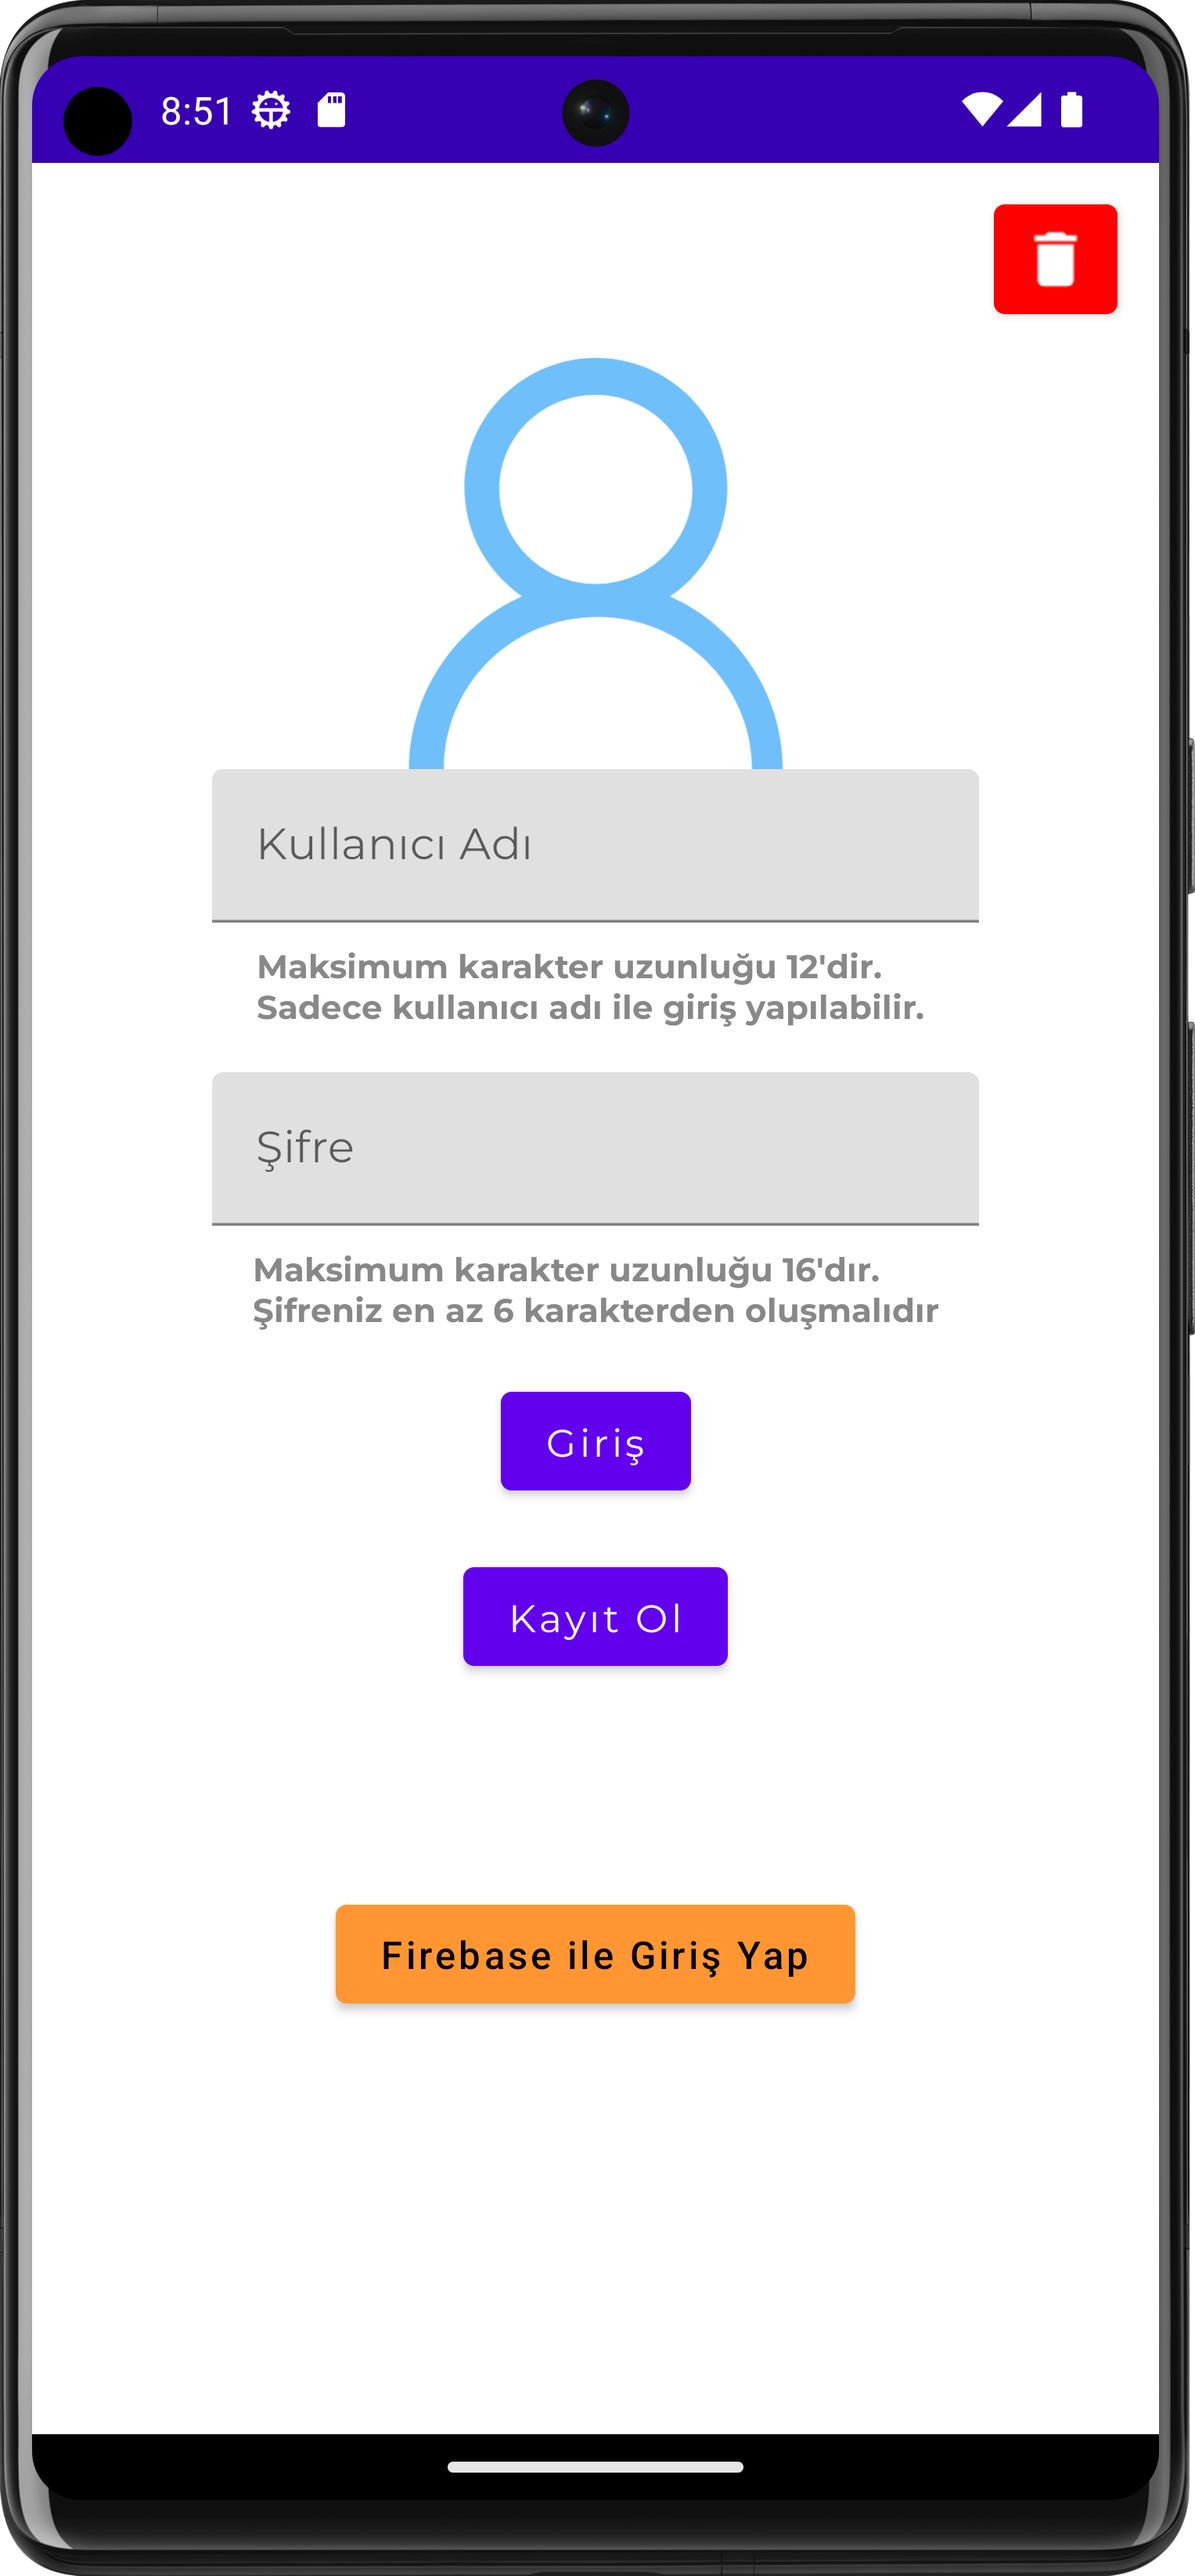
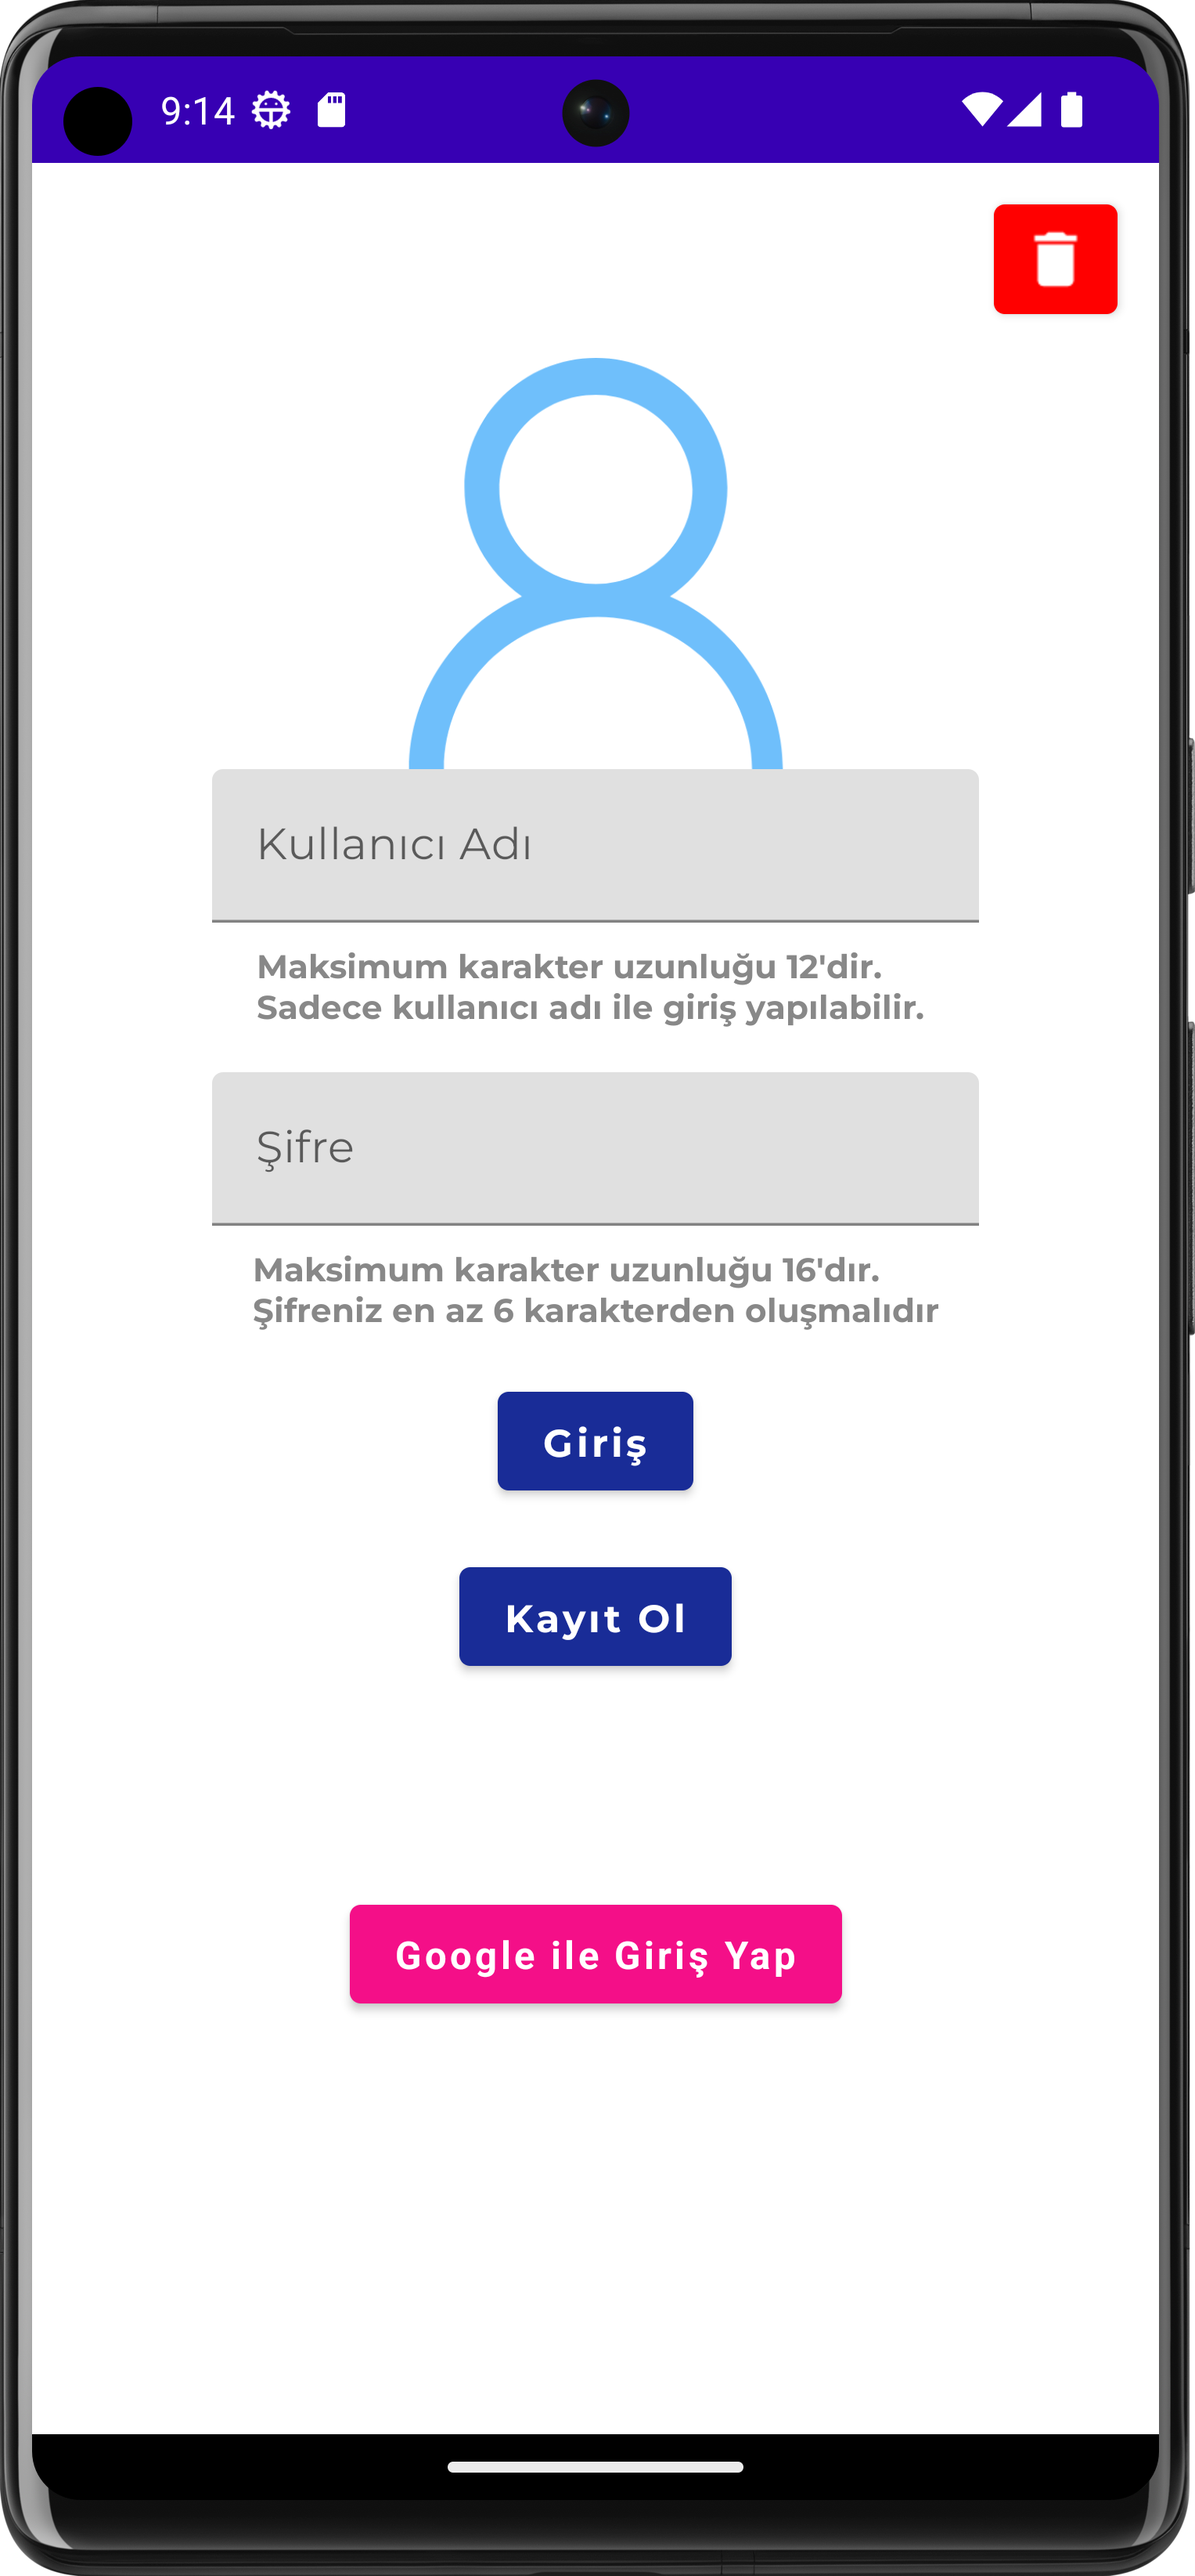
UI Improvements
Updated Text and Button Colors

Changed region(s): [[0.277, 0.7133, 0.7387, 0.7753], [0.3694, 0.5272, 0.6156, 0.6513], [0.1539, 0.031, 0.1847, 0.062]]

diff --git a/app/src/main/java/com/ozturksahinyetisir/d2p5/presentation/basicLogin/BasicLoginScreen.kt b/app/src/main/java/com/ozturksahinyetisir/d2p5/presentation/basicLogin/BasicLoginScreen.kt
@@ -151,10 +151,10 @@ fun LoginScreen() {
                         Toast.LENGTH_SHORT
                     ).show()
                 }
-            }
+            },colors = ButtonDefaults.buttonColors(backgroundColor = Color(0xFF192c97)),
         )
         {
-            Text("Giriş", fontFamily = montserratFontFamily,)
+            Text("Giriş", fontFamily = montserratFontFamily,color = Color.White,fontWeight = FontWeight.Bold)
         }
         Spacer(modifier = Modifier.height(16.dp))
         Button(
@@ -182,9 +182,9 @@ fun LoginScreen() {
                         Toast.LENGTH_SHORT
                     ).show()
                 }
-            }
+            },colors = ButtonDefaults.buttonColors(backgroundColor = Color(0xFF192c97)),
         ) {
-            Text("Kayıt Ol", fontFamily = montserratFontFamily)
+            Text("Kayıt Ol", fontFamily = montserratFontFamily,color = Color.White,fontWeight = FontWeight.Bold)
         }
     }
 

diff --git a/app/src/main/java/com/ozturksahinyetisir/d2p5/presentation/signIn/SignInScreen.kt b/app/src/main/java/com/ozturksahinyetisir/d2p5/presentation/signIn/SignInScreen.kt
@@ -11,6 +11,7 @@ import androidx.compose.ui.Alignment
 import androidx.compose.ui.Modifier
 import androidx.compose.ui.graphics.Color
 import androidx.compose.ui.platform.LocalContext
+import androidx.compose.ui.text.font.FontWeight
 import androidx.compose.ui.unit.dp
 
 @Composable
@@ -32,9 +33,9 @@ fun SignInScreen(
         horizontalAlignment = Alignment.CenterHorizontally
     ) {
         Button(onClick = onSignInClick,
-            colors = ButtonDefaults.buttonColors(backgroundColor = Color(0xFFFF9632))
+            colors = ButtonDefaults.buttonColors(backgroundColor = Color(0xFFF40f88))
         ) {
-            Text(text = "Firebase ile Giriş Yap")
+            Text(text = "Google ile Giriş Yap",color =Color.White,fontWeight = FontWeight.Bold)
         }
         Spacer(modifier = Modifier.height(135.dp))
     }
